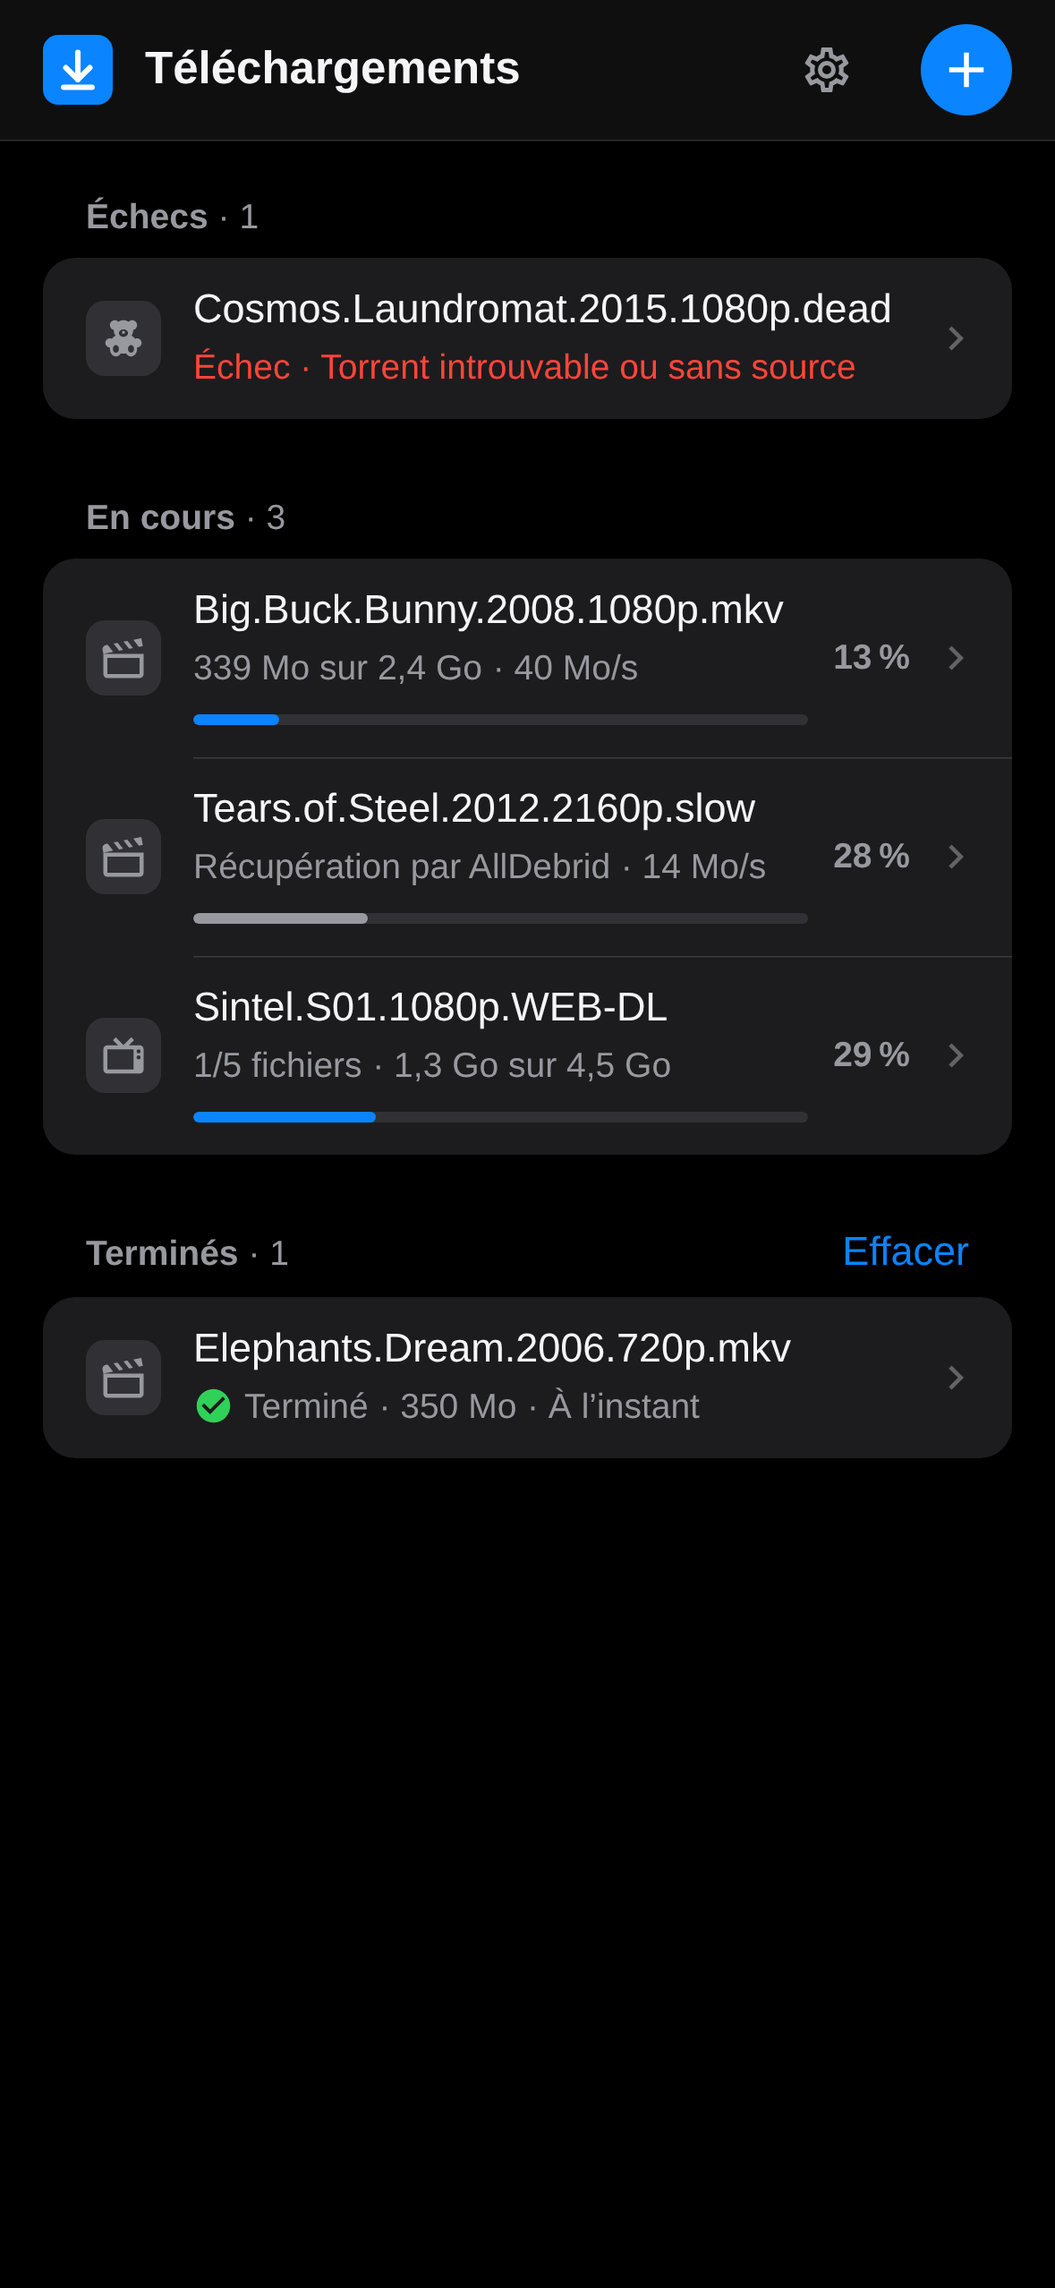
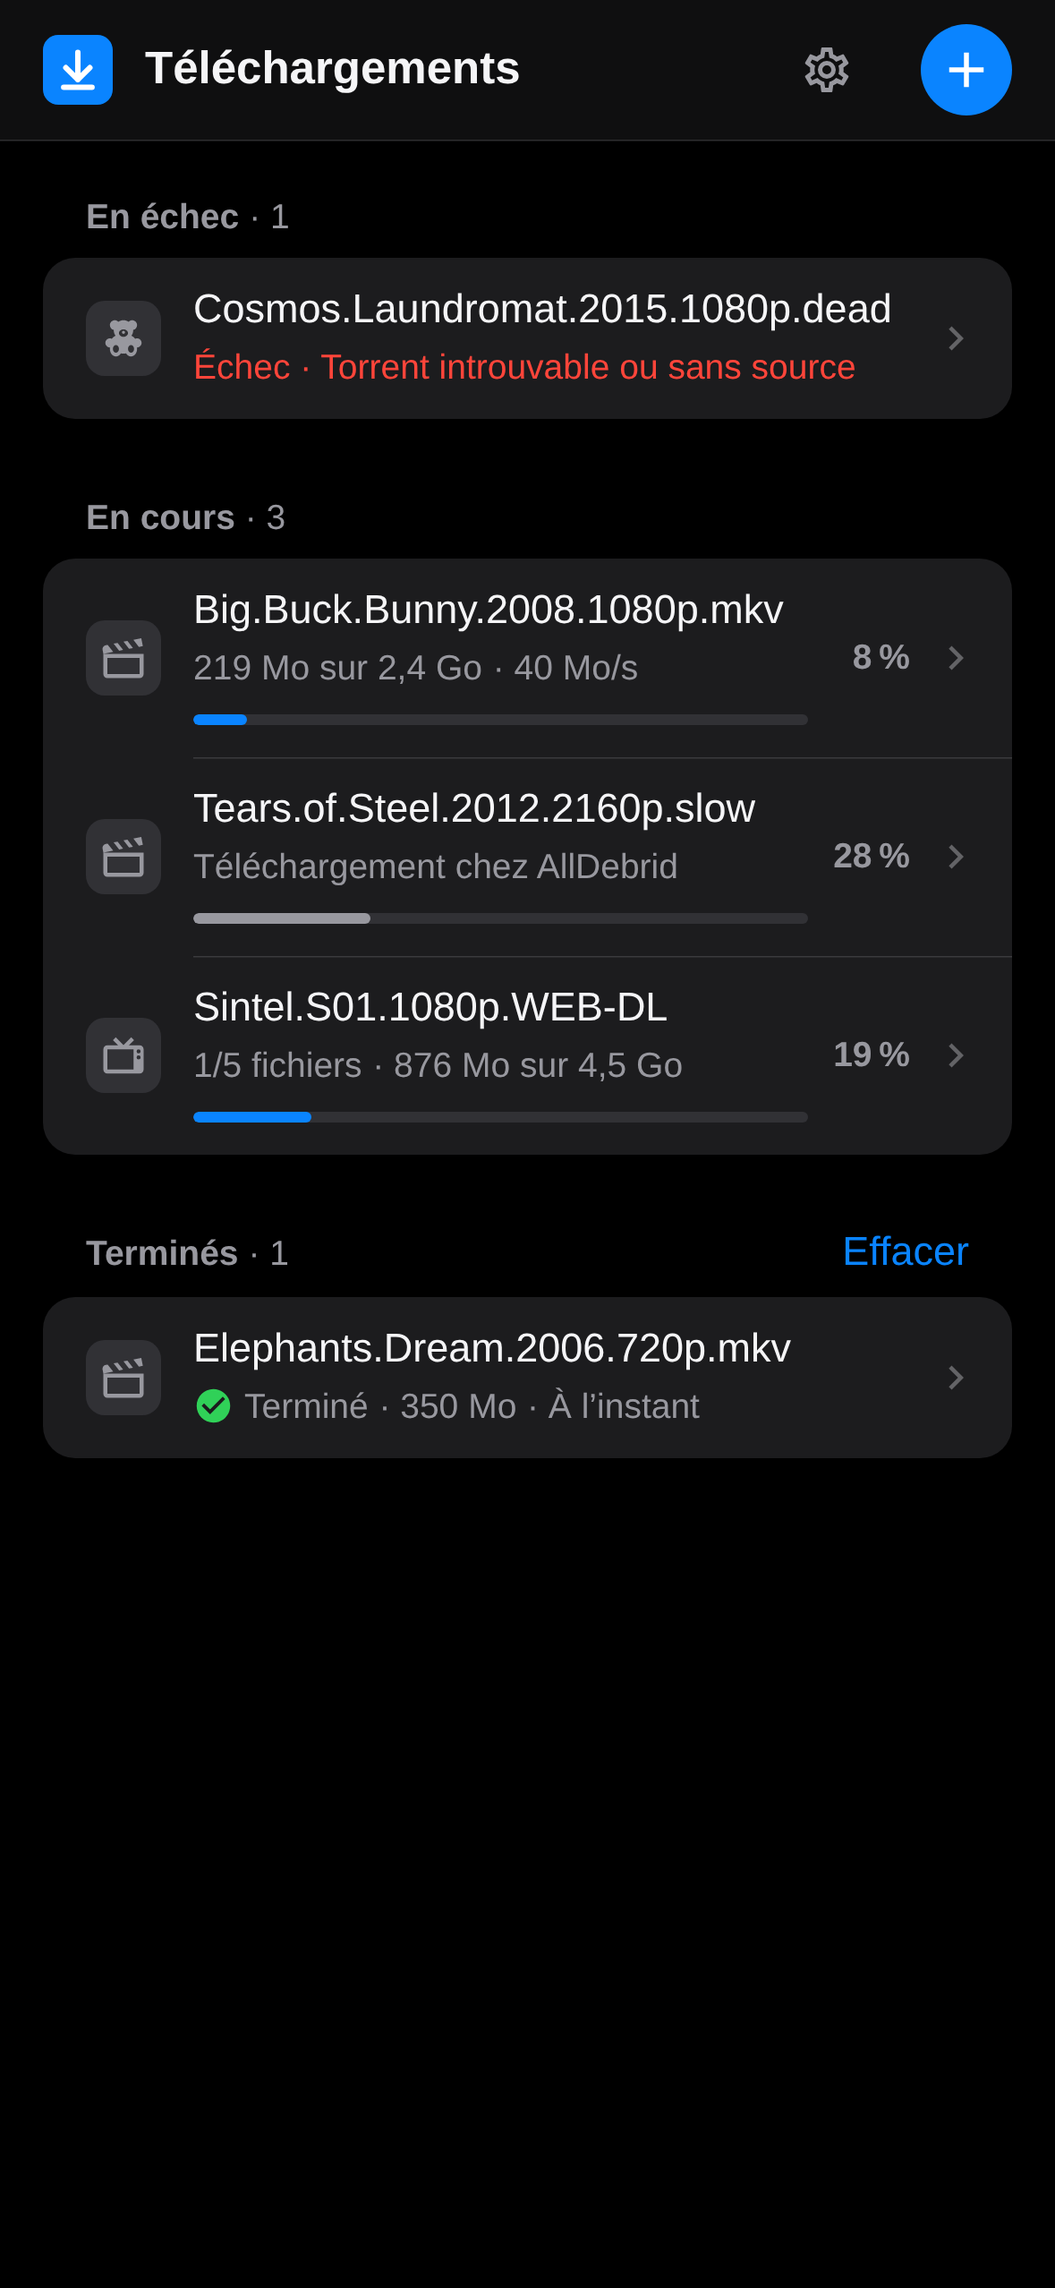
Smoother French texts
Sentences rewritten as they would be said: active voice for errors
("Le NAS ne répond pas"), fewer calques from English, simpler hints
("Au moins 8 caractères", "Pour commencer", "Téléchargement chez
AllDebrid"). A few English texts follow the same changes. The README
screenshots are taken again.

Claude-Session: https://claude.ai/code/session_01KM9HRz6c79V9uQomL45dhf

diff --git a/src/web/i18n.ts b/src/web/i18n.ts
@@ -1,8 +1,8 @@
 import type { CategoryIcon, ErrorCode } from '../shared/types.js';
 
 /*
- * Interface copy. Tone: neutral and concise — infinitives for actions, "vous" when a
- * sentence addresses the user, no exclamation marks. French is written with plain spaces before
+ * Interface copy. Tone: plain and natural, as said aloud — infinitives for buttons and actions,
+ * "vous" when a sentence addresses the user, no exclamation marks. French is written with plain spaces before
  * ? : ; ! and inside « »: `t()` puts the right no-break spaces in.
  */
 const fr = {
@@ -19,12 +19,12 @@ const fr = {
   'login.submit': 'Se connecter',
   'login.forgot': 'Mot de passe oublié ?',
   'login.forgotHelp':
-    'Supprimez le fichier {file} du dossier data de l’app, puis redémarrez le conteneur : l’app proposera de recréer le compte.',
+    'Supprimez le fichier {file} du dossier data de l’app, puis redémarrez le conteneur : vous pourrez créer un nouveau compte.',
 
-  'setup.title': 'Créer votre compte',
-  'setup.hint': 'Il sert à vous connecter à l’app, depuis tous vos appareils.',
+  'setup.title': 'Créez votre compte',
+  'setup.hint': 'Vous l’utiliserez pour vous connecter à l’app, sur tous vos appareils.',
   'password.confirm': 'Confirmer le mot de passe',
-  'setup.passwordRule': '8 caractères minimum.',
+  'setup.passwordRule': 'Au moins 8 caractères.',
   'password.mismatch': 'Les mots de passe ne correspondent pas.',
   'setup.create': 'Créer le compte',
 
@@ -35,26 +35,26 @@ const fr = {
   'nas.urlPlaceholder': 'http://192.168.1.10:5000',
   'nas.account': 'Compte DSM',
   'nas.accountPlaceholder': 'Nom d’utilisateur DSM',
-  'nas.passwordPlaceholder': 'Requis pour enregistrer',
+  'nas.passwordPlaceholder': 'Mot de passe DSM',
   'nas.code': 'Code',
   'nas.otp': 'Code de vérification',
   'nas.otpHint':
-    'Saisissez le code de l’application d’authentification du compte DSM. Il ne sera plus demandé.',
+    'Saisissez le code de votre application d’authentification. Il ne vous sera plus demandé.',
   'nas.insecureTls': 'Certificat auto-signé',
   'nas.insecureTlsHint': 'Accepte le certificat de DSM sans le vérifier.',
   'nas.footer':
-    'L’app crée les téléchargements avec ce compte. Le mot de passe est demandé à chaque modification.',
+    'Les téléchargements sont créés avec ce compte. Pour toute modification, le mot de passe est redemandé.',
   'nas.dedicated':
-    'L’app crée les téléchargements avec ce compte. Le mieux est un compte dédié, qui n’a accès qu’à Download Station, File Station et vos dossiers de téléchargement.',
+    'Les téléchargements sont créés avec ce compte. Idéalement, utilisez un compte dédié, limité à Download Station, à File Station et à vos dossiers de téléchargement.',
   'nas.connect': 'Connecter',
   'nas.saved': 'Connexion enregistrée',
 
   'password.current': 'Mot de passe actuel',
   'password.new': 'Nouveau mot de passe',
-  'password.footer': '8 caractères minimum. Vos autres appareils seront déconnectés.',
+  'password.footer': 'Au moins 8 caractères. Vos autres appareils seront déconnectés.',
   'password.saved': 'Mot de passe modifié',
 
-  'downloads.failed': 'Échecs',
+  'downloads.failed': 'En échec',
   'downloads.active': 'En cours',
   'downloads.finished': 'Terminés',
   'downloads.clear': 'Effacer',
@@ -66,30 +66,31 @@ const fr = {
   'downloads.cancel': 'Arrêter le téléchargement',
   'downloads.cancelTitle': 'Arrêter ce téléchargement ?',
   'downloads.cancelMessage':
-    'Il est retiré de Download Station et du service debrid. Les fichiers déjà terminés restent sur le NAS.',
+    'Il sera supprimé de Download Station et du service debrid. Les fichiers déjà téléchargés restent sur le NAS.',
   'downloads.remove': 'Retirer de la liste',
   'downloads.files': 'Fichiers',
   'downloads.fileCount': '{count} fichier|{count} fichiers',
-  'downloads.moreFiles': '{count} autre fichier|{count} autres fichiers',
+  'downloads.moreFiles': 'Et {count} autre fichier|Et {count} autres fichiers',
   'downloads.destination': 'Destination',
   'downloads.folder': 'Dossier',
   'downloads.size': 'Taille',
-  'downloads.added': 'Ajouté',
+  'downloads.added': 'Date d’ajout',
   'downloads.of': '{done} sur {total}',
   'downloads.loading': 'Chargement des téléchargements',
   'downloads.waitingNas':
-    'L’app ne peut pas se connecter à Download Station. Vérifiez la connexion dans les réglages.',
+    'Impossible de se connecter à Download Station. Vérifiez la connexion dans les réglages : le téléchargement reprendra ensuite.',
 
-  'checklist.title': 'Configuration',
+  'checklist.title': 'Pour commencer',
   'checklist.nas': 'Connecter Download Station',
-  'checklist.provider': 'Ajouter une clé API debrid',
+  'checklist.provider': 'Ajouter la clé API AllDebrid',
   'checklist.destination': 'Créer une destination',
   'common.openSettings': 'Ouvrir les réglages',
-  'checklist.next': 'Ensuite, ajoutez vos liens magnet et fichiers .torrent depuis cet écran.',
+  'checklist.next':
+    'Vous pourrez ensuite ajouter vos liens magnet et fichiers .torrent depuis cet écran.',
 
   'status.queued': 'En attente chez {provider}',
-  'status.debrid': 'Récupération par {provider}',
-  'status.sending': 'Envoi vers Download Station',
+  'status.debrid': 'Téléchargement chez {provider}',
+  'status.sending': 'Envoi à Download Station',
   'status.waitingNas': 'En attente de Download Station',
   'status.downloading': 'Téléchargement sur le NAS',
   'status.completed': 'Terminé',
@@ -116,38 +117,36 @@ const fr = {
   'add.submit': 'Ajouter',
   'add.submitCount': 'Ajouter ({count})',
   'add.added': '{count} téléchargement ajouté|{count} téléchargements ajoutés',
-  'add.failed':
-    '{count} élément n’a pas pu être ajouté.|{count} éléments n’ont pas pu être ajoutés.',
-  'add.othersAdded': 'L’autre a été ajouté.|Les {count} autres ont été ajoutés.',
+  'add.failed': '{count} ajout a échoué.|{count} ajouts ont échoué.',
+  'add.othersAdded': 'Le reste a bien été ajouté.',
   'add.notTorrent': '« {name} » n’est pas un fichier .torrent valide.',
-  'add.drop': 'Déposer les fichiers .torrent',
+  'add.drop': 'Déposez vos fichiers .torrent',
   'add.remove': 'Retirer',
   'add.notConfigured':
-    'Terminez d’abord la configuration : Download Station, un service debrid et une destination.',
+    'Avant d’ajouter un téléchargement, terminez la configuration : Download Station, AllDebrid et une destination.',
 
   'settings.nas': 'NAS',
-  'settings.services': 'Services debrid',
+  'settings.services': 'Service debrid',
   'settings.servicesFooter': 'Nécessaire pour ajouter des téléchargements.',
   'settings.destinations': 'Destinations',
   'settings.destinationsFooter':
-    'Proposées à chaque ajout. Les fichiers sont téléchargés dans le dossier indiqué.',
+    'Vous en choisissez une à chaque ajout : les fichiers arrivent dans son dossier.',
   'settings.addDestination': 'Ajouter une destination',
   'settings.edit': 'Modifier',
   'settings.done': 'OK',
   'settings.moveUp': 'Monter',
   'settings.moveDown': 'Descendre',
-  'settings.downloading': 'Téléchargement',
+  'settings.downloading': 'Téléchargements',
   'settings.subfolder': 'Un dossier par torrent',
-  'settings.subfolderHint':
-    'Les torrents à plusieurs fichiers sont placés dans leur propre dossier.',
+  'settings.subfolderHint': 'Les torrents de plusieurs fichiers ont leur propre dossier.',
   'settings.cleanup': 'Nettoyer le service debrid',
-  'settings.cleanupHint': 'Supprime le torrent du service une fois le téléchargement terminé.',
+  'settings.cleanupHint': 'Retire le torrent du service une fois le téléchargement terminé.',
   'settings.account': 'Compte',
   'settings.signedInAs': 'Connecté en tant que {user}',
   'settings.changePassword': 'Changer le mot de passe',
   'settings.signOut': 'Se déconnecter',
-  'settings.magnetHandler': 'Ouvrir les liens magnet avec cette application',
-  'settings.magnetHandlerDone': 'Demande envoyée au navigateur.',
+  'settings.magnetHandler': 'Ouvrir les liens magnet avec cette app',
+  'settings.magnetHandlerDone': 'Le navigateur vous demande de confirmer.',
   'settings.version': 'Version {version}',
 
   'check.connected': 'Connecté',
@@ -156,18 +155,19 @@ const fr = {
   'check.error': 'Erreur',
   'provider.apiKey': 'Clé API',
   'provider.apiKeyPlaceholder': 'Coller la clé API',
-  'provider.replaceHint': 'Une clé est enregistrée. Saisissez-en une nouvelle pour la remplacer.',
+  'provider.replaceHint':
+    'Une clé est déjà enregistrée ; saisissez-en une autre pour la remplacer.',
   'provider.getKey': 'Obtenir une clé API',
   'provider.fromEnv': 'Clé définie par la variable d’environnement {name}.',
   'provider.test': 'Tester',
   'provider.save': 'Enregistrer',
   'provider.saveAnyway': 'Enregistrer quand même',
   'provider.notValidated':
-    'La clé n’a pas pu être validée. Vérifiez-la, ou enregistrez-la quand même.',
+    'Cette clé n’a pas pu être vérifiée. Corrigez-la ou enregistrez-la quand même.',
   'provider.saved': 'Clé enregistrée',
   'provider.remove': 'Supprimer la clé',
   'provider.removeTitle': 'Supprimer la clé {name} ?',
-  'provider.removeMessage': '{name} ne pourra plus être utilisé pour les nouveaux téléchargements.',
+  'provider.removeMessage': 'Vous ne pourrez plus ajouter de téléchargements avec {name}.',
   'provider.removed': 'Clé supprimée',
   'provider.account': 'Compte',
   'provider.premiumUntil': 'Premium jusqu’au {date}',
@@ -187,7 +187,7 @@ const fr = {
   'destination.icon': 'Icône',
   'destination.delete': 'Supprimer la destination',
   'destination.deleteTitle': 'Supprimer « {name} » ?',
-  'destination.deleteMessage': 'Les fichiers déjà téléchargés ne sont pas modifiés.',
+  'destination.deleteMessage': 'Les fichiers déjà téléchargés restent sur le NAS.',
   'destination.saved': 'Destination enregistrée',
   'destination.deleted': 'Destination supprimée',
   'destination.folderMissing': 'Ce dossier n’existe pas encore sur le NAS.',
@@ -201,7 +201,7 @@ const fr = {
   'picker.newFolder': 'Nouveau dossier',
   'picker.newFolderName': 'Nom du dossier',
   'picker.create': 'Créer',
-  'picker.error': 'Impossible de lister les dossiers.',
+  'picker.error': 'Impossible d’afficher les dossiers.',
   'picker.location': 'Emplacement',
 
   'icon.movie': 'Films',
@@ -221,7 +221,7 @@ const fr = {
   'common.cancel': 'Annuler',
   'common.close': 'Fermer',
   'common.save': 'Enregistrer',
-  'common.offline': 'Connexion au serveur perdue. Nouvelle tentative…',
+  'common.offline': 'Connexion au serveur perdue. Reconnexion…',
   'common.detail': 'Détail : {message}',
 
   'time.now': 'À l’instant',
@@ -231,7 +231,7 @@ const fr = {
 
   'error.unauthorized': 'Votre session a expiré. Reconnectez-vous.',
   'error.invalid_credentials': 'Nom d’utilisateur ou mot de passe incorrect.',
-  'error.wrong_password': 'Mot de passe actuel incorrect.',
+  'error.wrong_password': 'Le mot de passe actuel est incorrect.',
   'error.weak_password': 'Le mot de passe doit contenir au moins 8 caractères.',
   'error.too_many_attempts': 'Trop de tentatives. Réessayez dans quelques minutes.',
   'error.otp_required': 'Saisissez le code de vérification.',
@@ -241,28 +241,28 @@ const fr = {
   'error.no_permission': 'Ce compte DSM n’a pas accès à Download Station.',
   'error.file_station_denied': 'Ce compte DSM n’a pas accès à File Station.',
   'error.account_disabled': 'Ce compte DSM est désactivé.',
-  'error.password_expired': 'Le mot de passe du compte DSM a expiré. Modifiez-le depuis DSM.',
-  'error.ip_blocked': 'Adresse IP bloquée par le NAS après trop de tentatives.',
+  'error.password_expired': 'Le mot de passe de ce compte DSM a expiré. Changez-le dans DSM.',
+  'error.ip_blocked': 'Le NAS a bloqué cette adresse IP après trop de tentatives.',
   'error.nas_not_configured': 'Download Station n’est pas encore configuré.',
   'error.nas_login_failed':
     'Download Station refuse la connexion. Vérifiez le compte DSM dans les réglages.',
   'error.nas_session_expired': 'La session DSM a expiré. Réessayez.',
-  'error.nas_unreachable': 'NAS injoignable. Vérifiez son adresse.',
+  'error.nas_unreachable': 'Le NAS ne répond pas. Vérifiez son adresse.',
   'error.nas_certificate':
     'Certificat du NAS refusé. S’il est auto-signé, activez « Certificat auto-signé ».',
   'error.nas_error': 'Le NAS a renvoyé une erreur.',
   'error.download_station_unavailable':
-    'Download Station ne répond pas sur le NAS : vérifiez qu’il est installé et démarré.',
+    'Download Station ne répond pas : vérifiez qu’il est installé et démarré sur le NAS.',
   'error.forbidden': 'Action non autorisée.',
   'error.invalid_request': 'Requête invalide.',
   'error.not_found': 'Élément introuvable.',
   'error.internal': 'Une erreur inattendue est survenue.',
-  'error.provider_not_configured': 'Ce service debrid n’est pas configuré.',
-  'error.provider_auth': 'Clé API refusée par le service debrid.',
+  'error.provider_not_configured': 'Le service debrid n’est pas configuré.',
+  'error.provider_auth': 'Le service debrid refuse cette clé API.',
   'error.provider_premium': 'Un abonnement premium est nécessaire.',
   'error.provider_rate_limited':
     'Trop de requêtes vers le service debrid. Réessayez dans un instant.',
-  'error.provider_unreachable': 'Service debrid injoignable.',
+  'error.provider_unreachable': 'Le service debrid ne répond pas.',
   'error.provider_error': 'Le service debrid a renvoyé une erreur.',
   'error.magnet_invalid': 'Lien magnet invalide.',
   'error.torrent_invalid': 'Fichier .torrent invalide.',
@@ -270,11 +270,11 @@ const fr = {
   'error.torrent_too_big': 'Torrent trop volumineux pour ce service.',
   'error.torrent_failed': 'Le service debrid n’a pas pu récupérer ce torrent.',
   'error.category_missing': 'Cette destination n’existe plus.',
-  'error.destination_denied': 'Écriture refusée dans ce dossier du NAS.',
+  'error.destination_denied': 'Le compte DSM ne peut pas écrire dans ce dossier.',
   'error.destination_missing': 'Ce dossier n’existe pas sur le NAS.',
   'error.folder_failed': 'Impossible de créer le dossier sur le NAS.',
   'error.download_failed': 'Download Station n’a pas pu télécharger le fichier.',
-  'error.task_removed': 'Tâche supprimée dans Download Station.',
+  'error.task_removed': 'Le téléchargement a été supprimé de Download Station.',
 } as const;
 
 export type MessageKey = keyof typeof fr;
@@ -309,7 +309,7 @@ const en: Record<MessageKey, string> = {
   'nas.urlPlaceholder': 'http://192.168.1.10:5000',
   'nas.account': 'DSM account',
   'nas.accountPlaceholder': 'DSM username',
-  'nas.passwordPlaceholder': 'Required to save',
+  'nas.passwordPlaceholder': 'DSM password',
   'nas.code': 'Code',
   'nas.otp': 'Verification code',
   'nas.otpHint':
@@ -344,25 +344,25 @@ const en: Record<MessageKey, string> = {
   'downloads.remove': 'Remove from list',
   'downloads.files': 'Files',
   'downloads.fileCount': '{count} file|{count} files',
-  'downloads.moreFiles': '{count} more file|{count} more files',
+  'downloads.moreFiles': 'And {count} more file|And {count} more files',
   'downloads.destination': 'Destination',
   'downloads.folder': 'Folder',
   'downloads.size': 'Size',
-  'downloads.added': 'Added',
+  'downloads.added': 'Date added',
   'downloads.of': '{done} of {total}',
   'downloads.loading': 'Loading downloads',
   'downloads.waitingNas':
     'The app cannot connect to Download Station. Check the connection in Settings.',
 
-  'checklist.title': 'Setup',
+  'checklist.title': 'Get started',
   'checklist.nas': 'Connect Download Station',
-  'checklist.provider': 'Add a debrid API key',
+  'checklist.provider': 'Add your AllDebrid API key',
   'checklist.destination': 'Create a destination',
   'common.openSettings': 'Open settings',
   'checklist.next': 'Then add your magnet links and .torrent files from this screen.',
 
   'status.queued': 'Queued at {provider}',
-  'status.debrid': 'Fetching via {provider}',
+  'status.debrid': 'Downloading at {provider}',
   'status.sending': 'Sending to Download Station',
   'status.waitingNas': 'Waiting for Download Station',
   'status.downloading': 'Downloading to the NAS',
@@ -391,7 +391,7 @@ const en: Record<MessageKey, string> = {
   'add.submitCount': 'Add ({count})',
   'add.added': '{count} download added|{count} downloads added',
   'add.failed': '{count} item could not be added.|{count} items could not be added.',
-  'add.othersAdded': 'The other one was added.|The other {count} were added.',
+  'add.othersAdded': 'The rest was added.',
   'add.notTorrent': '“{name}” is not a valid .torrent file.',
   'add.drop': 'Drop .torrent files',
   'add.remove': 'Remove',
@@ -399,7 +399,7 @@ const en: Record<MessageKey, string> = {
     'Finish the setup first: Download Station, a debrid service and a destination.',
 
   'settings.nas': 'NAS',
-  'settings.services': 'Debrid services',
+  'settings.services': 'Debrid service',
   'settings.servicesFooter': 'Needed to add downloads.',
   'settings.destinations': 'Destinations',
   'settings.destinationsFooter':
@@ -409,7 +409,7 @@ const en: Record<MessageKey, string> = {
   'settings.done': 'Done',
   'settings.moveUp': 'Move up',
   'settings.moveDown': 'Move down',
-  'settings.downloading': 'Downloading',
+  'settings.downloading': 'Downloads',
   'settings.subfolder': 'One folder per torrent',
   'settings.subfolderHint': 'Multi-file torrents are placed in their own folder.',
   'settings.cleanup': 'Clean up the debrid service',
@@ -419,7 +419,7 @@ const en: Record<MessageKey, string> = {
   'settings.changePassword': 'Change password',
   'settings.signOut': 'Sign out',
   'settings.magnetHandler': 'Open magnet links with this app',
-  'settings.magnetHandlerDone': 'Request sent to the browser.',
+  'settings.magnetHandlerDone': 'Your browser asks you to confirm.',
   'settings.version': 'Version {version}',
 
   'check.connected': 'Connected',

diff --git a/scripts/screenshots.ts b/scripts/screenshots.ts
@@ -149,7 +149,7 @@ try {
       await page.keyboard.press('Escape');
 
       await page.goto(`${APP}/#/settings`);
-      await page.getByText('Services debrid').waitFor();
+      await page.getByRole('heading', { name: 'Service debrid' }).waitFor();
       await sleep(1000);
       await shot(page, 'iphone-settings-light');
     } else {
